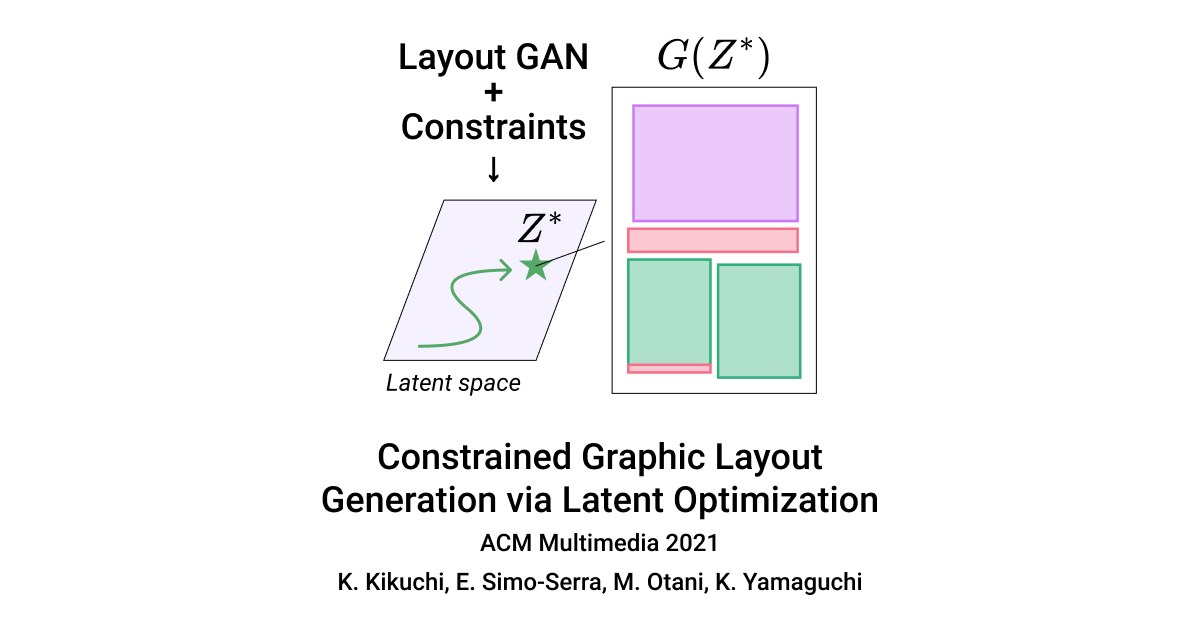
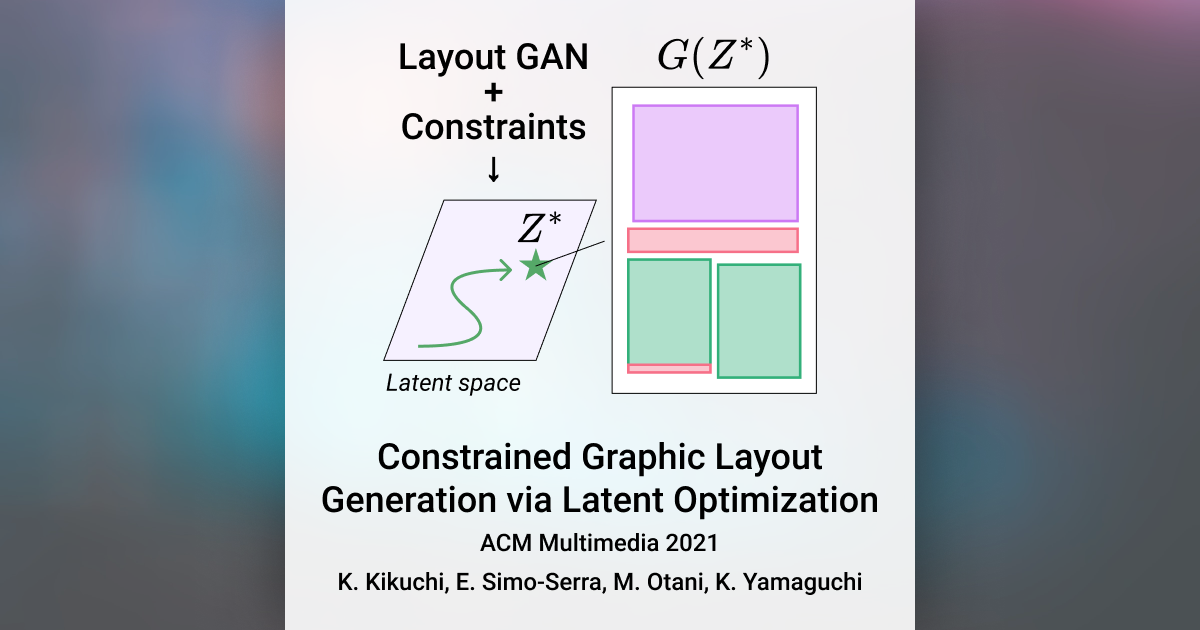
update OGP image

diff --git a/index.html b/index.html
@@ -19,7 +19,7 @@
         by ACM Multimedia 2021.' />
 
         <!-- twitter -->
-        <meta name="twitter:card" content="summary">
+        <meta name="twitter:card" content="summary_large_image">
         <meta name="twitter:site" content="@ktrk115" />
 
         <!-- stylesheet -->
